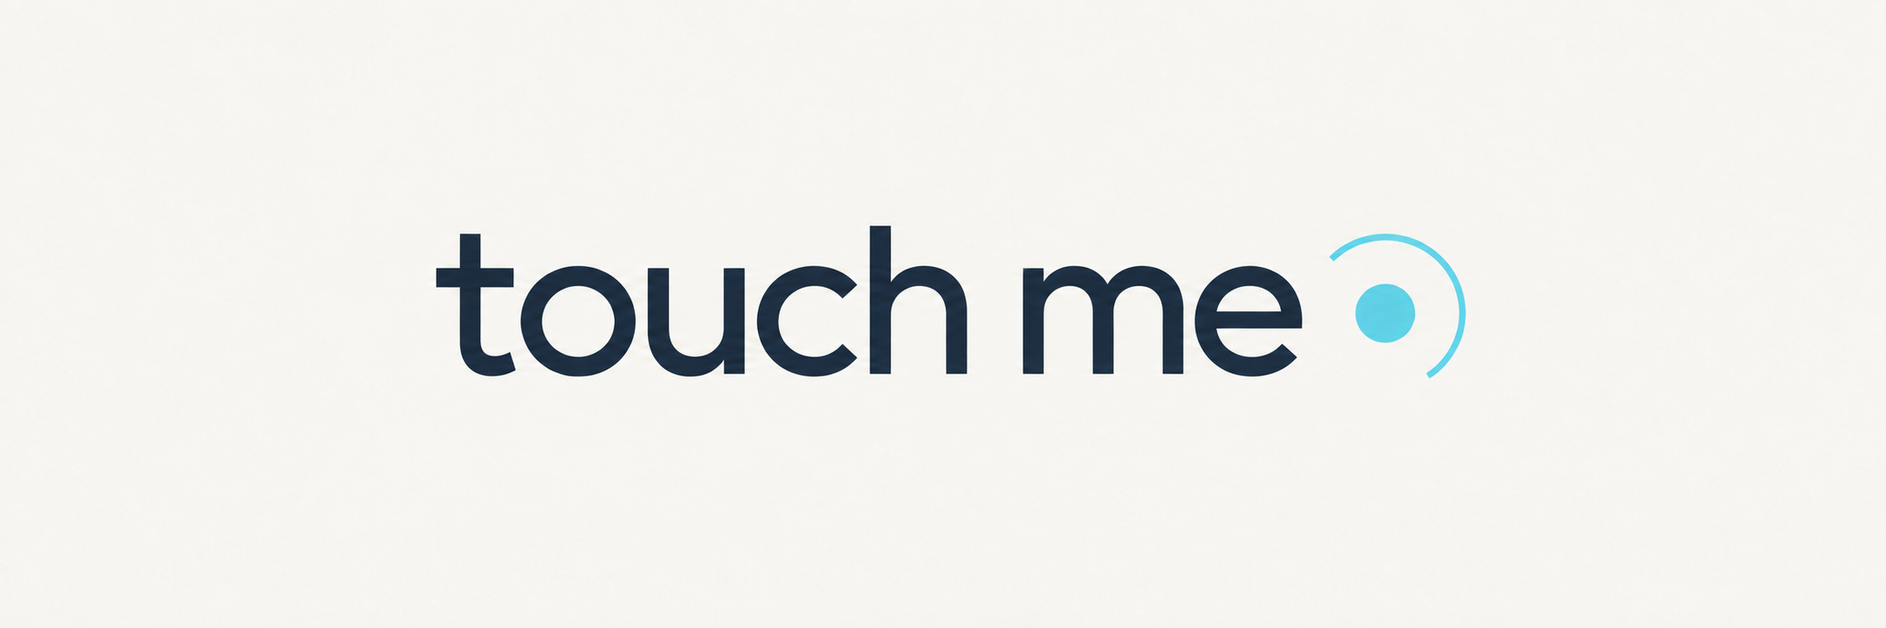
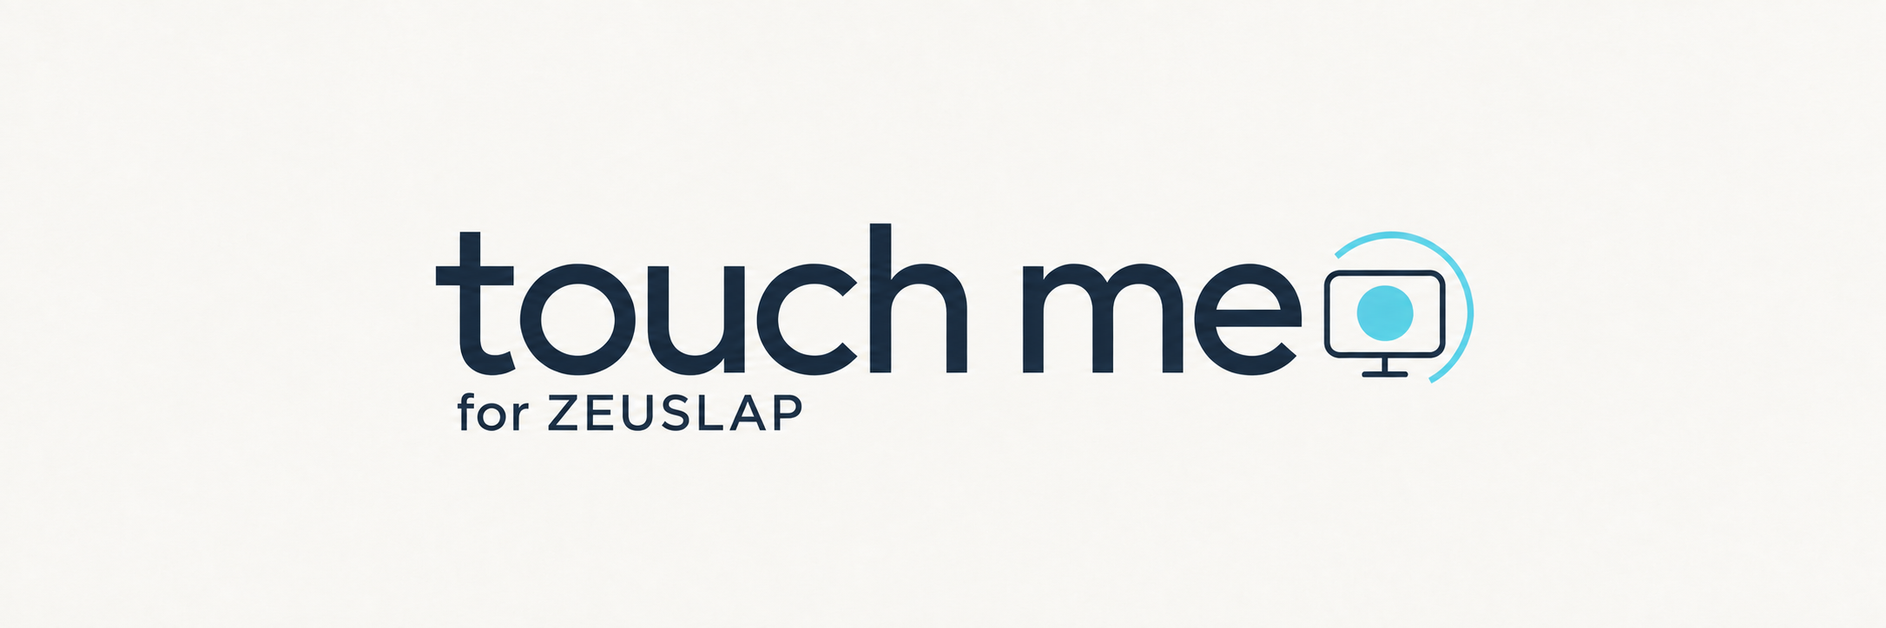
feat: ZEUSLAP용 Touch Me 안내와 배너 개선
- README 영문·국문을 설치, 권한 설정, 매핑 및 복구 안내 중심으로 개편
- 타이틀 이미지에 `for ZEUSLAP` 표기와 모니터·터치 심볼을 반영
- 이미지 생성 프롬프트를 최종 편집 사양으로 갱신

diff --git a/README.ko.md b/README.ko.md
@@ -1,46 +1,69 @@
-![touch me](docs/assets/touch-me-title.png)
+![touch me for ZEUSLAP](docs/assets/touch-me-title.png)
 
 [English](README.md) · [한국어](README.ko.md) · [개발 Workflow](Workflow.ko.md) · [Homebrew 배포](docs/Homebrew.ko.md)
 
-<!-- meta.contentType: Landing; audience: P16KT owners; goal: install and operate Touch Me; content plan: setup, installation, gestures, recovery, validation, licenses. -->
+<!-- meta.contentType: Landing; audience: ZEUSLAP owners with the verified P16KT profile; goal: install and operate Touch Me; content plan: purpose, current scope, installation, gestures, recovery, documentation, validation, license. -->
 
-# macOS에서 P16KT 터치 화면 사용하기
+# 맥에서도 ZEUSLAP 터치 모니터 쓰기
 
-Touch Me는 ZEUSLAP P16KT의 터치 입력을 선택한 화면에 맞춰 전달합니다. 메뉴 막대 앱을 실행하면 탭, 드래그, 더블 클릭과 두 손가락 스크롤을 사용할 수 있습니다. 현재 beta 버전은 `0.8.0-beta.2`입니다.
+Touch Me는 ZEUSLAP 터치 모니터의 터치 입력 문제를 macOS에서 해결하기 위해 만든 메뉴 막대 앱입니다. 손가락으로 누른 위치를 선택한 화면의 좌표에 맞춰 전달해 클릭하고 끌거나 두 손가락으로 스크롤할 수 있습니다.
 
-## 사용 환경 확인하기
+현재 beta `0.8.0-beta.2`는 **P16KT에서 확인한 USB/HID profile**을 요구합니다. 장치 식별자와 HID(Human Interface Device) 입력 구조가 다르면 매핑을 시작하지 않습니다. 다른 ZEUSLAP 모델까지 지원한다고 보장하지 않으므로 아래 환경을 먼저 확인해 주세요.
 
-현재 구현은 Apple Silicon과 macOS 26 이상에서 P16KT 한 대를 연결하는 환경을 대상으로 합니다. 기록된 실기기 검증 환경은 Apple M4 Max, macOS 26.7.1과 USB-C 직접 연결입니다.
+## 먼저 사용 환경을 확인하세요
+
+Apple Silicon Mac에서 P16KT 한 대를 연결하는 환경을 대상으로 합니다. 실기기에서 확인한 조합은 Apple M4 Max, macOS 26.7.1과 USB-C 직접 연결입니다:
 
 | 항목 | 현재 범위 |
 | --- | --- |
-| 터치 패널 | ZEUSLAP P16KT; 확인한 USB 장치 `0x0457:0x0819` |
+| Mac | Apple Silicon(arm64), macOS 26 이상 |
+| 터치 패널 | ZEUSLAP P16KT 한 대; USB 장치 `0x0457:0x0819` |
 | 대상 화면 | 회전과 미러링을 사용하지 않는 외부 화면 |
 | 권한 | 입력 모니터링과 손쉬운 사용 |
 | 앱 언어 | 기본값 영어; 설정에서 English / 한국어 선택 |
-| 배포 | Ad hoc arm64 앱과 디스크 이미지; 개인 Homebrew beta Tap |
+| 배포 | Ad hoc 서명 앱과 DMG; 개인 Homebrew beta Tap |
 
-다른 패널, Intel Mac과 이전 macOS 버전은 검증 기록이 없습니다. Touch Me를 시작하기 전에 다른 터치 매핑 프로그램을 중지하세요.
+다른 패널, Intel Mac과 이전 macOS 버전은 검증 기록이 없습니다. Touch Me를 열기 전에 다른 터치 매핑 프로그램을 중지하세요.
 
-## 설치하고 매핑 시작하기
+## 설치하고 첫 매핑 시작하기
 
-[v0.8.0-beta.2 release](https://github.com/soom-kang/touch-me/releases/tag/v0.8.0-beta.2)의 DMG와 checksum을 사용하거나 [개발 Workflow](Workflow.ko.md)에 따라 직접 빌드하세요. 로컬 이미지 경로는 `dist/touch-me-0.8.0-beta.2-arm64.dmg`입니다. Tap 설치, 수동 설치 앱과의 충돌 처리와 release 검사는 [Homebrew 배포](docs/Homebrew.ko.md)에서 확인하세요.
+Homebrew로 설치하거나 DMG에서 앱을 복사할 수 있습니다. 어느 쪽으로 설치하든 다음 권한과 대상 화면 설정은 같습니다.
 
-1. 디스크 이미지를 열고 **Touch Me.app**을 **Applications**로 끌어 복사하세요. 이미지를 추출한 뒤 설치한 앱을 여세요.
-2. **시스템 설정 → 개인정보 보호 및 보안**을 여세요. **입력 모니터링**과 **손쉬운 사용**에서 Touch Me를 허용하세요.
-3. P16KT를 USB-C로 연결하세요. Touch Me 메뉴 막대에서 **Settings / Proof**를 여세요. 한국어로 사용하려면 상단 **Language**에서 **한국어**를 선택하세요.
-4. P16KT 화면을 선택하고 시험 창을 여세요. 창이 패널에 나타나는지 확인한 뒤 대상 화면 확인 항목을 선택하세요.
+### Homebrew로 설치하기
+
+수동 설치한 `/Applications/Touch Me.app`이 이미 있다면 **로그인 시 Touch Me 열기**를 끄고 **매핑 중지**를 선택하세요. 장치 모드 복구가 끝난 것을 확인한 뒤 정상 종료하고 기존 앱을 Applications 밖으로 옮겨 보존하세요. 복구에 실패하면 설치를 멈추세요. 강제 덮어쓰기 없이 기존 앱과 환경설정을 보존하는 방법은 [Homebrew 설치 안내](docs/Homebrew.ko.md#공개-후-설치업데이트제거)에 정리했습니다.
+
+기존 Tap의 Cask로 설치하세요:
+
+```bash
+brew install --cask soom-kang/touch-me/touch-me
+```
+
+### DMG로 설치하기
+
+[v0.8.0-beta.2 release](https://github.com/soom-kang/touch-me/releases/tag/v0.8.0-beta.2)에서 arm64 DMG와 `.sha256` 파일을 받으세요. 출처와 checksum을 확인한 뒤 디스크 이미지를 열어 **Touch Me.app**을 **Applications**로 끌어 복사하세요. 복사를 마치면 이미지를 추출하세요.
+
+Beta는 ad hoc 서명을 사용하며 공증하지 않았습니다. macOS가 다운로드한 앱의 첫 실행을 차단하면 출처와 checksum을 확인한 뒤 [Apple의 수동 실행 승인 안내](https://support.apple.com/en-us/102445)를 따르세요. 승인 항목이 보이더라도 앱 실행을 보장하지는 않습니다.
+
+### 권한과 대상 화면 맞추기
+
+설치한 앱을 열고 메뉴 막대의 **Settings / Proof**(**설정 / 시험**)를 여세요. 저장한 언어 선택이 없으면 영어로 시작합니다. 상단의 **Language / 언어**에서 **English** 또는 **한국어**를 선택하세요.
+
+선택한 언어는 바로 적용되고 다음 실행에도 유지됩니다. 언어를 바꿔도 실행 중인 매핑, 선택한 대상과 시험 기록은 그대로이며 macOS 대화상자는 자체 언어를 따릅니다.
+
+다음 순서로 권한과 대상 화면을 설정하세요:
+
+1. **시스템 설정 → 개인정보 보호 및 보안**에서 **입력 모니터링**과 **손쉬운 사용**에 Touch Me를 허용하세요.
+2. P16KT를 USB-C로 연결하세요. 권한이나 장치가 보이지 않으면 **다시 조회**를 누르세요.
+3. P16KT 화면을 선택하고 **선택 화면에서 시험 창 열기**를 누르세요.
+4. 시험 창이 P16KT에 나타나는지 확인한 뒤 **시험 창이 P16KT에 표시되는 것을 확인했습니다**를 선택하세요.
 5. **매핑 시작**을 누르고 서로 떨어진 두 위치에서 탭 좌표를 확인하세요.
 
-앱은 메뉴 막대에 표시됩니다. 설정 창을 닫아도 매핑은 계속됩니다.
+설정 창을 닫아도 앱은 메뉴 막대에 남고 매핑은 계속됩니다.
 
-설정 상단의 **Language / 언어**에서 **English** 또는 **한국어**를 선택하세요. 변경 즉시 적용하고 다음 실행에도 선택을 유지합니다. 언어를 바꿔도 실행 중인 매핑, 선택한 대상과 시험 창의 기록은 유지됩니다. macOS 대화상자와 시스템 설정은 자체 언어를 따릅니다.
+## 손가락으로 사용하기
 
-Beta는 ad hoc 서명을 사용하며 공증하지 않았습니다. 다운로드한 앱은 첫 실행이 차단될 수 있습니다. 출처와 checksum을 확인한 뒤 [Apple의 수동 실행 승인 안내](https://support.apple.com/en-us/102445)를 따르세요. 승인 항목이 제공되더라도 실행 가능성을 보장하지는 않습니다.
-
-## 터치와 실행 상태 제어하기
-
-지원하는 제스처는 다음과 같습니다:
+한 손가락으로 클릭하거나 끌고 두 손가락으로 스크롤하세요:
 
 | 동작 | 제스처 |
 | --- | --- |
@@ -49,49 +72,62 @@ Beta는 ad hoc 서명을 사용하며 공증하지 않았습니다. 다운로드
 | 세로 또는 가로 스크롤 | 두 손가락을 함께 이동 |
 | 스크롤 후 드래그 시작 | 두 손가락을 모두 뗀 뒤 새 한 손가락 제스처 시작 |
 
-**매핑 중지**를 누르면 입력을 해제하고 다음 실행에서도 중지 상태를 유지합니다. 매핑 중 종료하면 다시 시작할 의도를 저장합니다. 자동 재개하려면 저장한 화면과 USB 위치가 일치하고 두 권한이 모두 허용돼야 합니다.
+## 중지하고 다시 시작하기
 
-절전, 사용자 세션 비활성화 또는 화면 구성 변경은 매핑을 안전하게 중지하고 저장된 재개 의도를 해제합니다. 잠에서 깨거나 세션으로 돌아와도 자동으로 시작하지 않습니다. 대상과 권한을 확인한 뒤 직접 매핑을 시작하세요. 정상 종료는 앞선 안전 중단이나 명시적 중지가 재개 의도를 해제하지 않은 경우에만 재개 의도를 유지합니다.
+메뉴의 **매핑 중지**를 선택하면 입력을 해제하고 다음 실행에서도 중지 상태를 유지합니다. 매핑 중 정상 종료하면 다시 시작할 의도를 저장합니다. 자동 재개하려면 저장한 화면과 USB 위치가 일치하고 두 권한이 모두 허용돼야 합니다.
 
-**로그인 시 시작**은 기본값이 꺼짐입니다. 앱을 Applications에 복사한 뒤 설정에서 켜세요. 로그인 시 시작은 앱을 여는 옵션이며, 매핑 재개 여부는 저장한 실행 상태에 따릅니다.
+절전, 사용자 세션 비활성화와 화면 구성 변경은 매핑을 안전하게 중지하고 저장한 재개 의도를 지웁니다. 잠에서 깨거나 세션으로 돌아와도 자동으로 매핑을 시작하지 않습니다. 대상과 권한을 확인한 뒤 직접 시작하세요. 앞선 안전 중단이나 **매핑 중지**로 재개 의도를 지웠다면 이후 정상 종료해도 자동 재개하지 않습니다.
 
-## 오류 복구 또는 앱 삭제하기
+**로그인 시 Touch Me 열기**는 기본값이 꺼짐입니다. 앱을 Applications에 설치한 뒤 설정에서 켤 수 있습니다. 이 옵션은 로그인할 때 앱을 여는 설정이고 매핑 재개 여부는 저장한 실행 상태에 따릅니다.
 
-매핑 중에는 확인한 P16KT의 장치 모드를 임시로 변경합니다. 중지하거나 정상 종료하면 입력을 해제하고, 모드를 변경한 경우 원래 값으로 복구합니다. 복구에 실패하면 앱 종료가 차단될 수 있습니다.
+## 오류 복구와 업데이트, 제거
 
-강제 종료, 충돌, 전원 손실에서는 정상 정리 절차를 실행할 수 없습니다. 원래 장치 모드는 현재 프로세스 메모리에만 저장되며, 이전 프로세스의 모드를 충돌 후 복구하는 기능은 없습니다. 이때 패널이 변경된 모드를 유지하는지는 아직 검증하지 않았습니다. 앱 재실행이나 이후 중지 성공만으로 충돌 전 모드 복구를 확인했다고 판단하지 마세요. 장치 동작이 예상과 다르면 매핑을 중지하고, 복구가 해결되지 않은 동안 업데이트·제거를 보류하며 오류 내용을 보존하세요. 추측한 모드 값을 장치에 강제로 쓰지 마세요. [비정상 종료 검증](docs/qa/abnormal-exit-recovery.md)을 참고하세요.
+매핑 중에는 확인한 P16KT의 장치 모드를 임시로 변경합니다. 중지하거나 정상 종료하면 입력을 해제하고 변경했던 모드를 원래 값으로 복구합니다. 복구에 실패하면 앱 종료가 차단될 수 있습니다:
 
 | 상황 | 다음 행동 |
 | --- | --- |
-| 권한이 부족함 | 두 개인정보 보호 설정에서 Touch Me를 허용하고 앱을 새로 조회하세요 |
-| 패널이나 화면이 바뀜 | 저장한 패널을 같은 USB 포트에 연결하고 화면을 다시 선택·확인하세요 |
+| 권한이 부족함 | 두 개인정보 보호 설정에서 Touch Me를 허용하고 **다시 조회**를 누르세요 |
+| 패널이나 화면이 바뀜 | 저장한 패널을 같은 USB 포트에 연결하고 화면을 다시 선택하고 확인하세요 |
 | 장치 접근에 실패함 | 다른 매핑 프로그램을 중지하고 USB 연결을 확인하세요 |
-| 장치 모드 복구에 실패함 | P16KT를 같은 USB 포트에 다시 연결하고 **매핑 중지**로 복구한 뒤 종료하세요 |
+| 장치 모드 복구에 실패함 | P16KT를 같은 USB 포트에 다시 연결하고 설정의 **복구 재시도**를 누르세요 |
 
-앱을 삭제하려면 **로그인 시 시작**을 끄고 매핑을 중지하세요. 앱을 종료한 뒤 휴지통으로 옮기세요. 이 절차는 저장한 환경설정을 삭제하지 않습니다.
+강제 종료, 충돌이나 전원 손실에서는 정상 정리 절차를 실행할 수 없습니다. 원래 장치 모드는 현재 프로세스 메모리에만 저장하므로 이전 프로세스의 모드를 충돌 후 복구하는 기능은 없습니다. 이때 패널이 변경된 모드를 유지하는지는 아직 검증하지 않았습니다.
 
-## 입력 전달 구조 이해하기
+앱 재실행이나 이후 중지 성공만으로 충돌 전 모드가 복구됐다고 판단하지 마세요. 장치 동작이 예상과 다르면 매핑을 중지하고 업데이트와 제거를 보류하며 오류 내용을 보존하세요. 추측한 모드 값을 장치에 강제로 쓰지 마세요. 자세한 확인 범위는 [비정상 종료 검증](docs/qa/abnormal-exit-recovery.md)에 정리했습니다.
 
-앱에서 대상을 선택하고 실행 상태를 제어합니다. Platform 코드는 패널 입력을 읽고 좌표·제스처 로직을 호출한 뒤 마우스와 스크롤 이벤트를 macOS에 전달합니다.
+업데이트하거나 제거하기 전에는 **매핑 중지 → 장치 모드 복구 확인 → 정상 종료**를 수행하세요. 복구에 실패하면 같은 USB 포트에 패널을 연결하고 복구를 마칠 때까지 진행하지 마세요. Ad hoc 앱을 업데이트한 뒤에는 두 개인정보 보호 권한을 다시 확인하세요.
+
+제거할 때는 **로그인 시 Touch Me 열기**도 꺼 주세요. 직접 설치한 앱은 복구와 종료를 마친 뒤 휴지통으로 옮기고 Homebrew로 설치한 앱은 [업데이트와 제거 안내](docs/Homebrew.ko.md#공개-후-설치업데이트제거)를 따르세요. 이 절차는 저장한 환경설정을 삭제하지 않습니다.
+
+## 구조와 자세한 문서
+
+앱에서 대상을 선택하고 매핑을 시작하면 Platform 코드가 패널 입력을 읽습니다. Core의 좌표와 제스처 로직으로 처리한 뒤 마우스와 스크롤 이벤트를 선택한 화면에 맞춰 macOS로 전달합니다.
 
 ![Touch Me 실행 구조: P16KT 입력을 Platform과 Core에서 처리해 선택한 화면의 macOS 이벤트로 전달합니다.](docs/assets/architecture.ko.png)
 
-[편집 가능한 다이어그램](docs/assets/architecture.ko.html) · [모듈별 역할](Workflow.ko.md#모듈별-역할-확인하기)
+직접 빌드하거나 배포 과정을 확인하려면 아래 문서를 참고하세요:
 
-## 기록된 검증 결과 확인하기
+- [개발 Workflow](Workflow.ko.md): 모듈별 역할, 로컬 빌드와 패키징, 변경에 맞는 검증
+- [Homebrew 배포](docs/Homebrew.ko.md): Tap과 release 절차, 설치 충돌, 업데이트와 제거
+- [beta.2 release notes](docs/releases/v0.8.0-beta.2.md): 이번 버전의 변경과 검증 한계
+- [편집 가능한 구조 다이어그램](docs/assets/architecture.ko.html)
 
-이 요약은 상세 개발 기록을 정리하면서 보존한 결과입니다. `Asia/Seoul` 기준 2026-10-07의 build 8 단독 검증을 다룹니다. 아래 입력 결과는 사용자 보고이며, 프로세스와 산출물 확인은 별도로 수행했습니다:
+직접 빌드한 DMG의 경로는 `dist/touch-me-0.8.0-beta.2-arm64.dmg`입니다.
+
+## 기록된 검증 결과
+
+2026-10-07(`Asia/Seoul`)의 build 8 단독 검증에서 보존한 결과입니다. 아래 입력 동작은 사용자 보고이며 프로세스와 산출물은 별도로 확인했습니다:
 
 - 탭 좌표, 한 손가락 드래그와 정상 종료 후 입력 해제
-- 사전 탭 없는 두 손가락 세로·가로 스크롤
+- 사전 탭 없는 두 손가락 세로 스크롤과 가로 스크롤
 - 더블 클릭 감지와 정상 종료 후 자동 재개
-- 중지 상태 유지와 로그인 항목 등록·해제
-- 개인용 디스크 이미지의 Finder 설치와 설치 후 매핑
+- 중지 상태 유지, 로그인 항목 등록과 해제
+- 개인용 DMG의 Finder 설치와 설치 후 매핑
 
-이는 기록된 결과이며 재생성한 앱의 새 실기기 검증이 아닙니다. 실제 로그아웃·로그인 실행은 `NOT_RUN`, 자동 재개 후 가로 스크롤은 `NOT_RETESTED`입니다. 다른 매핑 프로그램의 개입 가능성이 있던 초기 시험은 단독 동작의 근거로 사용하지 않습니다.
+이는 과거 기록이며 beta.2나 재생성한 앱을 새로 실기기에서 검증한 결과가 아닙니다. 실제 로그아웃과 로그인 실행은 `NOT_RUN`, 자동 재개 후 가로 스크롤은 `NOT_RETESTED`입니다. 다른 매핑 프로그램이 개입했을 수 있는 초기 시험은 단독 동작의 근거로 사용하지 않습니다.
 
-장치 처리나 호환 범위를 바꾸기 전에 [검증 범위](Workflow.ko.md#변경에-맞는-최소-검증-선택하기)를 확인하세요.
+Beta.2의 Homebrew 설치, Gatekeeper, GUI, 실기기와 로그인 실행 검사는 `NOT_RUN`입니다. 로컬 산출물 검사 결과와 검증 한계는 [개발 Workflow의 검증 기록](Workflow.ko.md#변경에-맞는-최소-검증-선택하기)과 [release notes](docs/releases/v0.8.0-beta.2.md)에서 확인하세요.
 
-## 라이선스 확인하기
+## 라이선스
 
-Touch Me에는 [MIT License](LICENSE)를 적용합니다. 저작권 표기는 2026 Soom Kang입니다. 앱 메뉴의 **라이선스**에서 확인할 수 있습니다.
+Touch Me에는 [MIT License](LICENSE)를 적용합니다. 저작권 표기는 2026 Soom Kang입니다. 앱 메뉴의 **라이선스**에서도 읽을 수 있습니다.

diff --git a/README.md b/README.md
@@ -1,97 +1,133 @@
-![touch me](docs/assets/touch-me-title.png)
+![touch me for ZEUSLAP](docs/assets/touch-me-title.png)
 
 [English](README.md) · [한국어](README.ko.md) · [Build workflow](Workflow.md) · [Homebrew distribution](docs/Homebrew.md)
 
-<!-- meta.contentType: Landing; audience: P16KT owners; goal: install and operate Touch Me; content plan: setup, installation, gestures, recovery, validation, licenses. -->
+<!-- meta.contentType: Landing; audience: ZEUSLAP owners with the verified P16KT profile; goal: install and operate Touch Me; content plan: purpose, current scope, installation, gestures, recovery, documentation, validation, license. -->
 
-# Use your P16KT touchscreen on macOS
+# Use your ZEUSLAP touchscreen on macOS
 
-Touch Me maps touches on a ZEUSLAP P16KT to its selected display. Run the menu bar app to tap, drag, double-click and scroll with two fingers. The current beta is `0.8.0-beta.2`.
+Touch Me is a menu bar app for resolving ZEUSLAP touchscreen input issues on macOS. It maps your touches to the display you select, so you can tap to click, drag with one finger and scroll with two.
 
-## Check your setup
+The current beta, `0.8.0-beta.2`, requires the **USB/HID profile verified on the P16KT**. Mapping won't start if the device identifiers or HID (Human Interface Device) input layout differ. Support for other ZEUSLAP models isn't guaranteed, so check the setup below first.
 
-The current implementation targets one connected P16KT on Apple Silicon with macOS 26 or later. The recorded hardware checks used an Apple M4 Max, macOS 26.7.1 and a direct USB-C connection.
+## Check your setup first
 
-| Requirement   | Current scope                                                         |
-| ------------- | --------------------------------------------------------------------- |
-| Touch panel   | ZEUSLAP P16KT; verified USB device `0x0457:0x0819`                    |
-| Display       | External, without rotation or mirroring                               |
-| Permissions   | Input Monitoring and Accessibility                                    |
-| App languages | English by default; English / 한국어 selector in settings             |
-| Distribution  | Ad hoc arm64 app and disk image; personal Homebrew beta Tap          |
+The app targets one connected P16KT on an Apple Silicon Mac. Recorded hardware checks used an Apple M4 Max, macOS 26.7.1 and a direct USB-C connection:
 
-Other panels, Intel Macs and older macOS versions have no recorded validation. Stop other touch-mapping software before starting Touch Me.
+| Item | Current scope |
+| --- | --- |
+| Mac | Apple Silicon (arm64), macOS 26 or later |
+| Touch panel | One ZEUSLAP P16KT; USB device `0x0457:0x0819` |
+| Target display | External, without rotation or mirroring |
+| Permissions | Input Monitoring and Accessibility |
+| App languages | English by default; English / 한국어 selector in settings |
+| Distribution | Ad hoc signed app and DMG; personal Homebrew beta Tap |
 
-## Install and start mapping
+Other panels, Intel Macs and older macOS versions have no recorded validation. Stop other touch-mapping software before opening Touch Me.
 
-Use the DMG and checksum from the [v0.8.0-beta.2 release](https://github.com/soom-kang/touch-me/releases/tag/v0.8.0-beta.2), or build them with the [development workflow](Workflow.md). The local image is `dist/touch-me-0.8.0-beta.2-arm64.dmg`. See [Homebrew distribution](docs/Homebrew.md) for Tap installation, manual-app conflicts and release checks.
+## Install and start your first mapping session
 
-1. Open the disk image and drag **Touch Me.app** to **Applications**. Eject the image, then open the installed app.
-2. Open **System Settings → Privacy & Security**. Allow Touch Me in **Input Monitoring** and **Accessibility**.
-3. Connect the P16KT by USB-C. Open **Settings / Proof** from the Touch Me menu bar item.
-4. Select the P16KT display and open its test window. Confirm that the window appears on the panel, then select the target-confirmation checkbox.
+Install through Homebrew or copy the app from its DMG. Both routes use the same permission and target-display setup below.
+
+### Install with Homebrew
+
+If you already have a manually installed `/Applications/Touch Me.app`, turn off **Open Touch Me at login** and select **Stop mapping**. Confirm device-mode restoration completed, then quit normally and move the old app outside Applications to keep it. Stop installation if restoration fails. The [Homebrew installation guide](docs/Homebrew.md#install-update-and-remove-after-publication) explains how to preserve the app and preferences without forcing an overwrite.
+
+Install the Cask from the existing Tap:
+
+```bash
+brew install --cask soom-kang/touch-me/touch-me
+```
+
+### Install from the DMG
+
+Download the arm64 DMG and its `.sha256` file from the [v0.8.0-beta.2 release](https://github.com/soom-kang/touch-me/releases/tag/v0.8.0-beta.2). Verify the source and checksum, then open the disk image and drag **Touch Me.app** to **Applications**. Eject the image after copying.
+
+The beta has an ad hoc signature and isn't notarized. If macOS blocks the downloaded app's first launch, verify its source and checksum before following [Apple's manual approval guidance](https://support.apple.com/en-us/102445). An available approval option doesn't guarantee the app can run.
+
+### Set permissions and choose the target display
+
+Open the installed app and choose **Settings / Proof** from the menu bar. Without a saved language choice, the app starts in English. Use **Language / 언어** at the top to choose **English** or **한국어**.
+
+The choice takes effect immediately and stays selected on the next launch. Switching languages preserves the running mapping session, selected target and test history. macOS dialogs keep their own language.
+
+Set permissions and the target display in this order:
+
+1. In **System Settings → Privacy & Security**, allow Touch Me in **Input Monitoring** and **Accessibility**.
+2. Connect the P16KT by USB-C. Select **Refresh** if permissions or the device aren't visible.
+3. Select the P16KT display and choose **Open test on selected display**.
+4. Check that the test window appears on the P16KT, then select **I confirmed the test window is on the P16KT**.
 5. Select **Start mapping** and check taps at two separated positions.
 
-The app stays in the menu bar. Closing the settings window leaves mapping active.
+Closing settings leaves the app in the menu bar and mapping active.
 
-Choose **English** or **한국어** from **Language** at the top of settings. The choice takes effect immediately and stays selected on the next launch. Changing it preserves the current mapping session, selected target and test-window history. macOS dialogs and System Settings keep their own language.
+## Use your fingers
 
-The beta has an ad hoc signature and is not notarized. For a downloaded copy, macOS may block the first launch. Verify its source and checksum before following [Apple's manual approval guidance](https://support.apple.com/en-us/102445); availability of that option does not guarantee the app can run.
+Use one finger to click or drag and two fingers to scroll:
 
-## Use touch and control the session
+| Action | Gesture |
+| --- | --- |
+| Click or double-click | Tap once or twice |
+| Drag | Hold one finger and move it |
+| Scroll vertically or horizontally | Move two fingers together |
+| Start dragging after scrolling | Lift both fingers before starting a new one-finger gesture |
 
-The supported gestures are:
+## Stop and start again
 
-| Action                            | Gesture                                                    |
-| --------------------------------- | ---------------------------------------------------------- |
-| Click or double-click             | Tap once or twice                                          |
-| Drag                              | Hold one finger and move it                                |
-| Scroll vertically or horizontally | Move two fingers together                                  |
-| Return from scrolling to dragging | Lift both fingers before starting a new one-finger gesture |
+Select **Stop mapping** from the menu to release input and keep mapping stopped on the next launch. Quitting normally while mapping saves the intent to resume. Automatic resume requires the saved display and USB location to match and both permissions to be granted.
 
-Select **Stop mapping** to release input and keep mapping stopped on the next launch. Quitting while mapping preserves the intent to resume. Automatic resume requires the saved display, USB location and both permissions to match.
+Sleep, an inactive user session or a display-configuration change stops mapping safely and clears the saved resume intent. Waking or returning to the session doesn't restart mapping. Check the target and permissions, then start it manually. If an earlier safety interruption or **Stop mapping** cleared resume intent, a later normal Quit won't restore automatic resume.
 
-Sleep, an inactive user session, or a display-configuration change stops mapping and clears the saved intent to resume. Waking or returning to the session does not restart mapping automatically. Check the target and permissions, then start mapping manually. Normal Quit preserves resume intent only if no earlier safety interruption or explicit Stop cleared it.
+**Open Touch Me at login** is off by default. Enable it in settings after installing the app in Applications. This option opens the app at login; the saved mapping state determines whether mapping resumes.
 
-**Launch at login** is off by default. Enable it in settings after copying the app to Applications. Login launch opens the app; the saved mapping state determines whether it resumes.
+## Recover, update or remove the app
 
-## Recover or remove the app
+Mapping temporarily changes the verified P16KT device mode. Stop or normal Quit releases input and restores the original mode when a change was necessary. A restoration error can prevent the app from quitting:
 
-Mapping temporarily changes the verified P16KT device mode. Stop or normal Quit releases input and restores the original mode when a change was necessary. A restoration error can prevent the app from quitting.
+| Situation | Next action |
+| --- | --- |
+| A permission is missing | Allow Touch Me in both privacy settings, then select **Refresh** |
+| The panel or display changed | Reconnect the saved panel to the same USB port; select and confirm the display again |
+| Device access fails | Stop other mappers and check the USB connection |
+| Device-mode restoration fails | Reconnect the P16KT to the same USB port and select **Retry restore** in settings |
 
-Force Quit, a crash, or power loss cannot run normal cleanup. The original device mode is kept only for the current process; the app does not currently recover that earlier mode across a crash. Whether the panel retains the changed mode after such an interruption has not been validated. Do not treat reopening the app or a later successful Stop as proof that the pre-crash mode was restored. If device behavior is unexpected, stop mapping, avoid upgrade/removal while recovery is unresolved, and retain the error details for diagnosis. Do not force an assumed mode value onto the device. See [abnormal-exit verification](docs/qa/abnormal-exit-recovery.md).
+Force Quit, a crash or power loss can't run normal cleanup. The app stores the original device mode only in the current process's memory; it doesn't recover the previous process's mode after a crash. Whether the panel retains the changed mode after that interruption hasn't been validated.
 
-| Situation                     | Next action                                                                          |
-| ----------------------------- | ------------------------------------------------------------------------------------ |
-| A permission is missing       | Allow Touch Me in both privacy settings, then refresh the app                        |
-| The panel or display changed  | Reconnect the saved panel to the same USB port; select and confirm the display again |
-| Device access fails           | Stop other mappers and check the USB connection                                      |
-| Device-mode restoration fails | Reconnect the P16KT to the same USB port and retry **Stop mapping** before quitting  |
+Don't treat reopening the app or a later successful Stop as proof that the pre-crash mode was restored. If device behavior is unexpected, stop mapping, put upgrades and removal on hold, and keep the error details. Don't force an assumed mode value onto the device. See the [abnormal-exit verification notes](docs/qa/abnormal-exit-recovery.md) for the verification scope.
 
-To remove Touch Me, turn off **Launch at login**, stop mapping, quit the app and move it to Trash. These steps leave saved preferences in place.
+Before updating or removing the app, follow **Stop mapping → confirm device-mode restoration → normal Quit**. If restoration fails, reconnect the panel to the same USB port and finish recovery before proceeding. After an ad hoc update, check both privacy permissions again.
 
-## Understand the mapping path
+Turn off **Open Touch Me at login** before removal. After restoration and Quit, move a manually installed app to Trash. For a Homebrew installation, follow the [update and removal guide](docs/Homebrew.md#install-update-and-remove-after-publication). These steps preserve saved preferences.
 
-The app selects the target and controls the session. Platform code reads the panel, calls the coordinate and gesture logic, then posts mouse and scroll events to macOS.
+## Architecture and further reading
+
+After you choose a target and start mapping, platform code reads input from the panel. It runs Core coordinate and gesture logic, then posts mouse and scroll events to macOS for that display.
 
 ![Touch Me runtime: P16KT input passes through platform and core logic to macOS events on the selected display.](docs/assets/architecture.png)
 
-[Editable diagram](docs/assets/architecture.html) · [Module responsibilities](Workflow.md#understand-the-modules)
+For local builds or distribution details, read these documents:
 
-## Read the recorded validation
+- [Build workflow](Workflow.md): module responsibilities, local builds, packaging and checks for each change
+- [Homebrew distribution](docs/Homebrew.md): Tap and release procedure, installation conflicts, updates and removal
+- [Beta.2 release notes](docs/releases/v0.8.0-beta.2.md): changes and validation limits for this version
+- [Editable architecture diagram](docs/assets/architecture.html)
 
-This summary preserves standalone build 8 checks recorded on 2026-10-07, in `Asia/Seoul`. It replaces the retired detailed development notes. The following results came from user reports, with separate process and artifact checks:
+A local build produces `dist/touch-me-0.8.0-beta.2-arm64.dmg`.
+
+## Recorded validation
+
+These results preserve standalone build 8 checks from 2026-10-07, in `Asia/Seoul`. The input behavior below came from user reports; process and artifact checks were separate:
 
 - Tap coordinates, one-finger drag and input release after normal Quit
 - Two-finger vertical and horizontal scrolling without a preliminary tap
 - Double-click detection and automatic resume after normal Quit
 - Stop-state persistence and login-item registration and removal
-- Finder installation from the personal disk image and subsequent mapping
+- Finder installation from the personal DMG and subsequent mapping
 
-These are recorded results, not new device checks for a rebuilt app. A full logout/login launch is `NOT_RUN`; horizontal scrolling after automatic resume is `NOT_RETESTED`. Earlier checks with possible interference from another mapper do not establish standalone behavior.
+These are historical results, not new device checks for beta.2 or a rebuilt app. A full logout/login launch is `NOT_RUN`; horizontal scrolling after automatic resume is `NOT_RETESTED`. Earlier checks with possible interference from another mapper don't establish standalone behavior.
 
-See the [validation boundaries](Workflow.md#choose-the-minimum-checks) before changing device handling or expanding compatibility.
+Beta.2 Homebrew installation, Gatekeeper, GUI, real-device and login-launch checks are `NOT_RUN`. See the [build workflow's validation records](Workflow.md#choose-the-minimum-checks) and [release notes](docs/releases/v0.8.0-beta.2.md) for local artifact results and validation limits.
 
-## Read the license
+## License
 
-Touch Me uses the [MIT License](LICENSE), copyright 2026 Soom Kang. Open **License** in the app menu to read it.
+Touch Me uses the [MIT License](LICENSE), copyright 2026 Soom Kang. You can also read it from **License** in the app menu.
